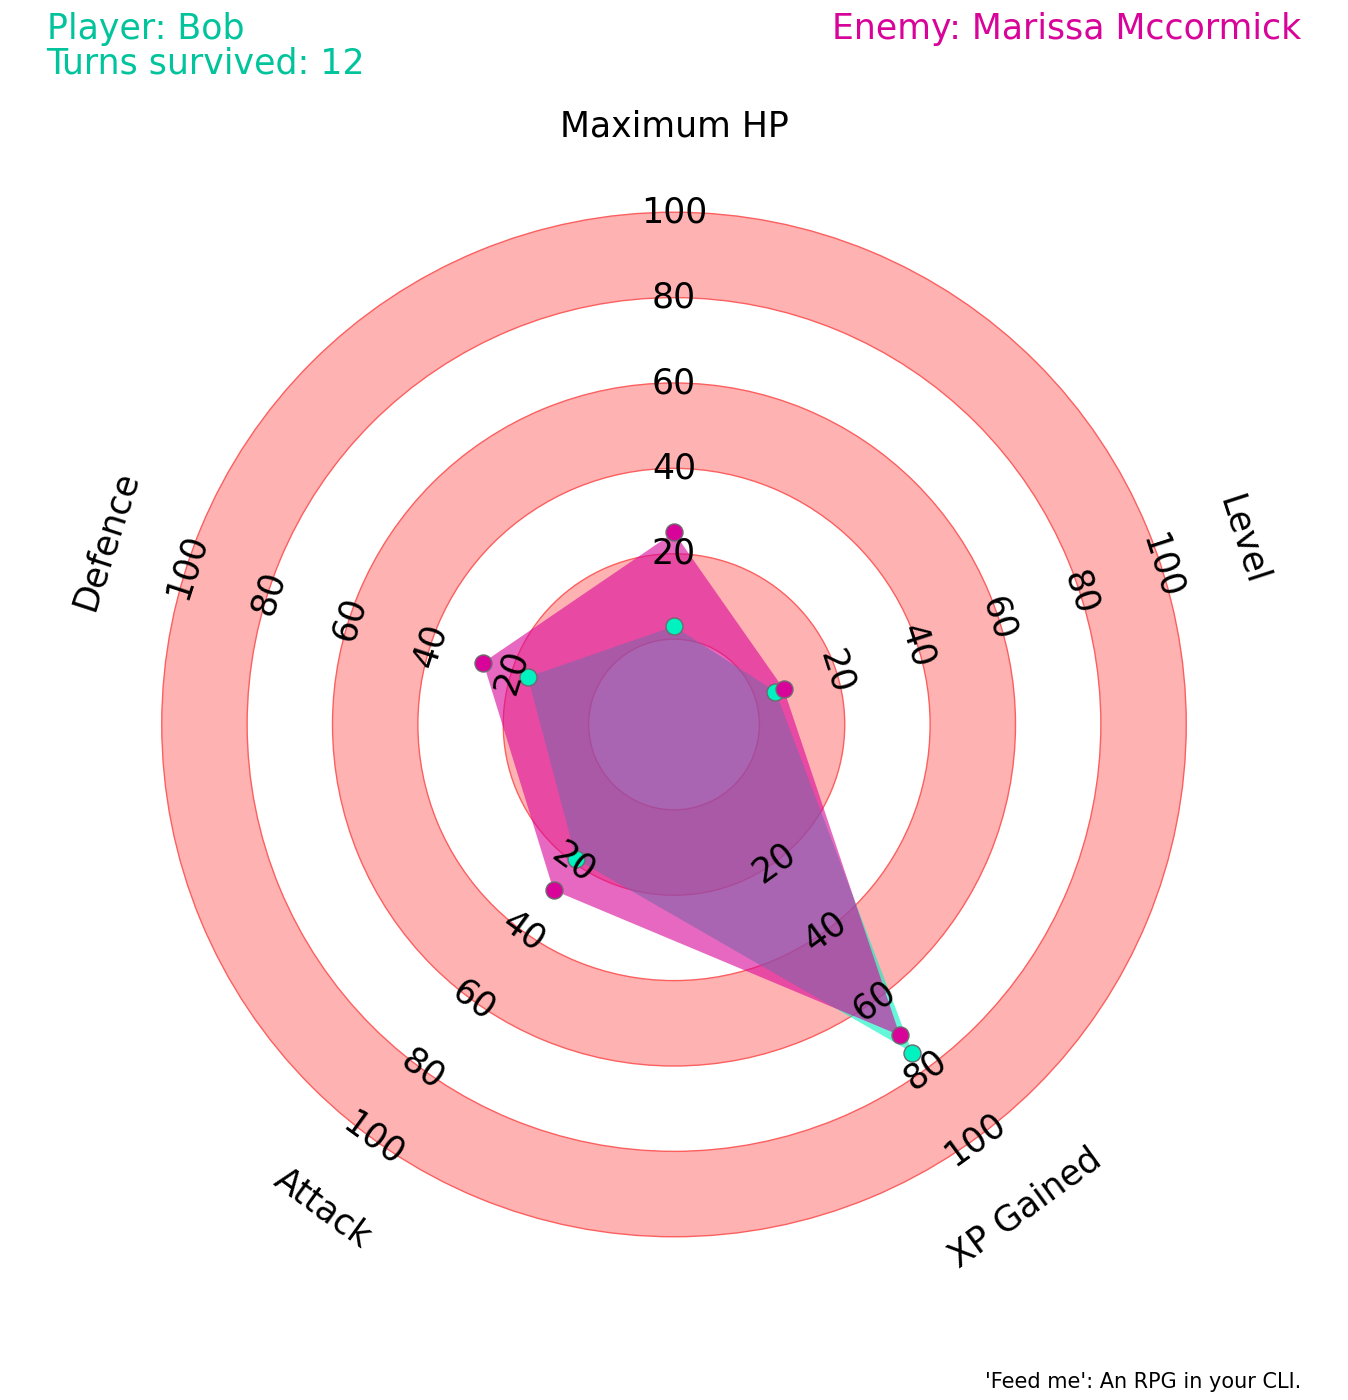
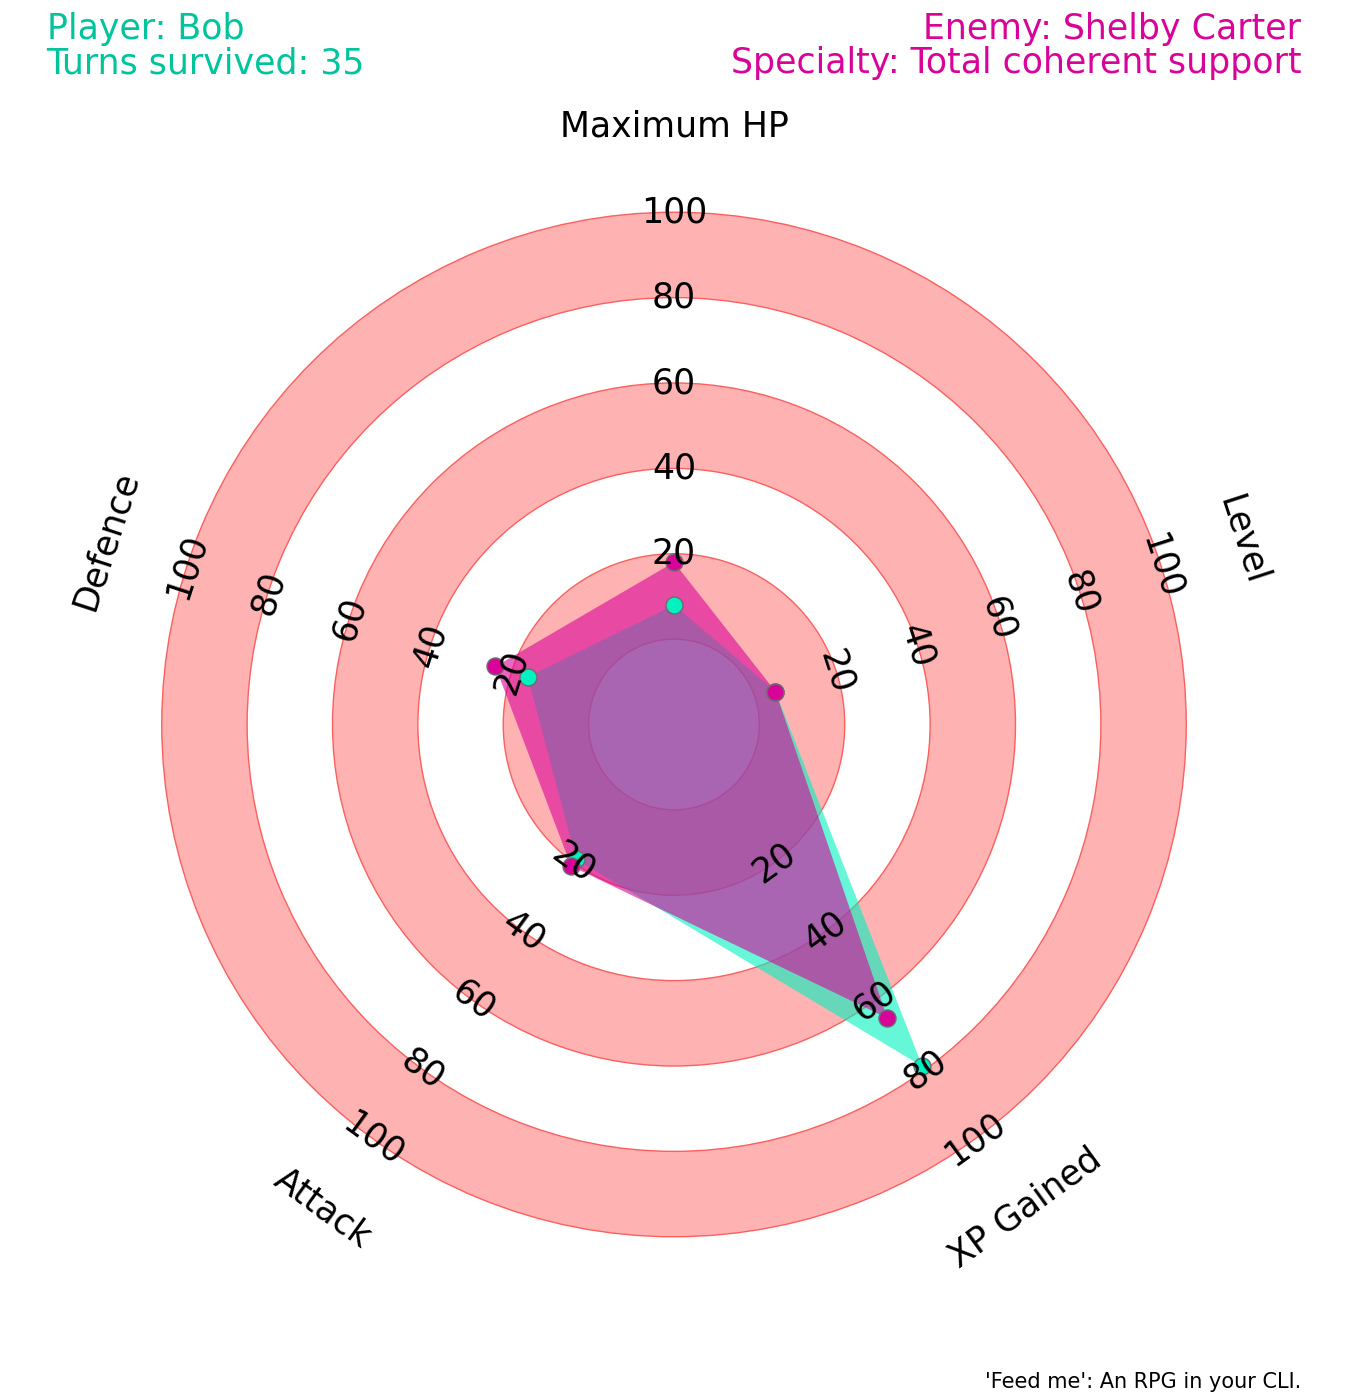
fix: enemy stats fixed

diff --git a/game/enemy.py b/game/enemy.py
@@ -11,12 +11,14 @@ class EnemyClass(object):
     xp_to_next_level = 0
     total_xp = 0
     level = 1
+    specialty = fake.catch_phrase()
 
     def __init__(self, hp, attack, defence): 
         self.name = fake.name()
         self.hp = hp
         self.attack = attack
         self.defence = defence
+        self.xp_to_next_level = 5
 
     def print_stuff(self):
         print (fake.random_digit_above_two())
@@ -27,11 +29,11 @@ class EnemyClass(object):
         self.max_hp = hp_increase
         self.attack += fake.random_digit_not_null()
         self.defence += fake.random_digit_not_null()
-        self.xp_to_next_level = 10
+        self.xp_to_next_level += 5
         self.level += 1
         
     def add_xp(self):
-        xp_gain = fake.random_digit_not_null()
+        xp_gain = fake.random_int(1,9)
         self.current_xp += xp_gain
         self.total_xp += xp_gain
         if self.current_xp > self.xp_to_next_level:
@@ -42,5 +44,5 @@ class EnemyClass(object):
 
     def print_stats(self):
         print(
-            f"*** STATS ***\nNAME: {self.name}\nHP: {self.hp}\nATK: {self.attack}\nDEF: {self.defence}\nLEV: {self.level}\n*** ^ ^ ^ ***"
+            f"*** STATS ***\nNAME: {self.name}\nHP: {self.hp}\nATK: {self.attack}\nDEF: {self.defence}\nLEV: {self.level}\nNEXT LEVEL: {self.xp_to_next_level} XP\n*** ^ ^ ^ ***"
         )
